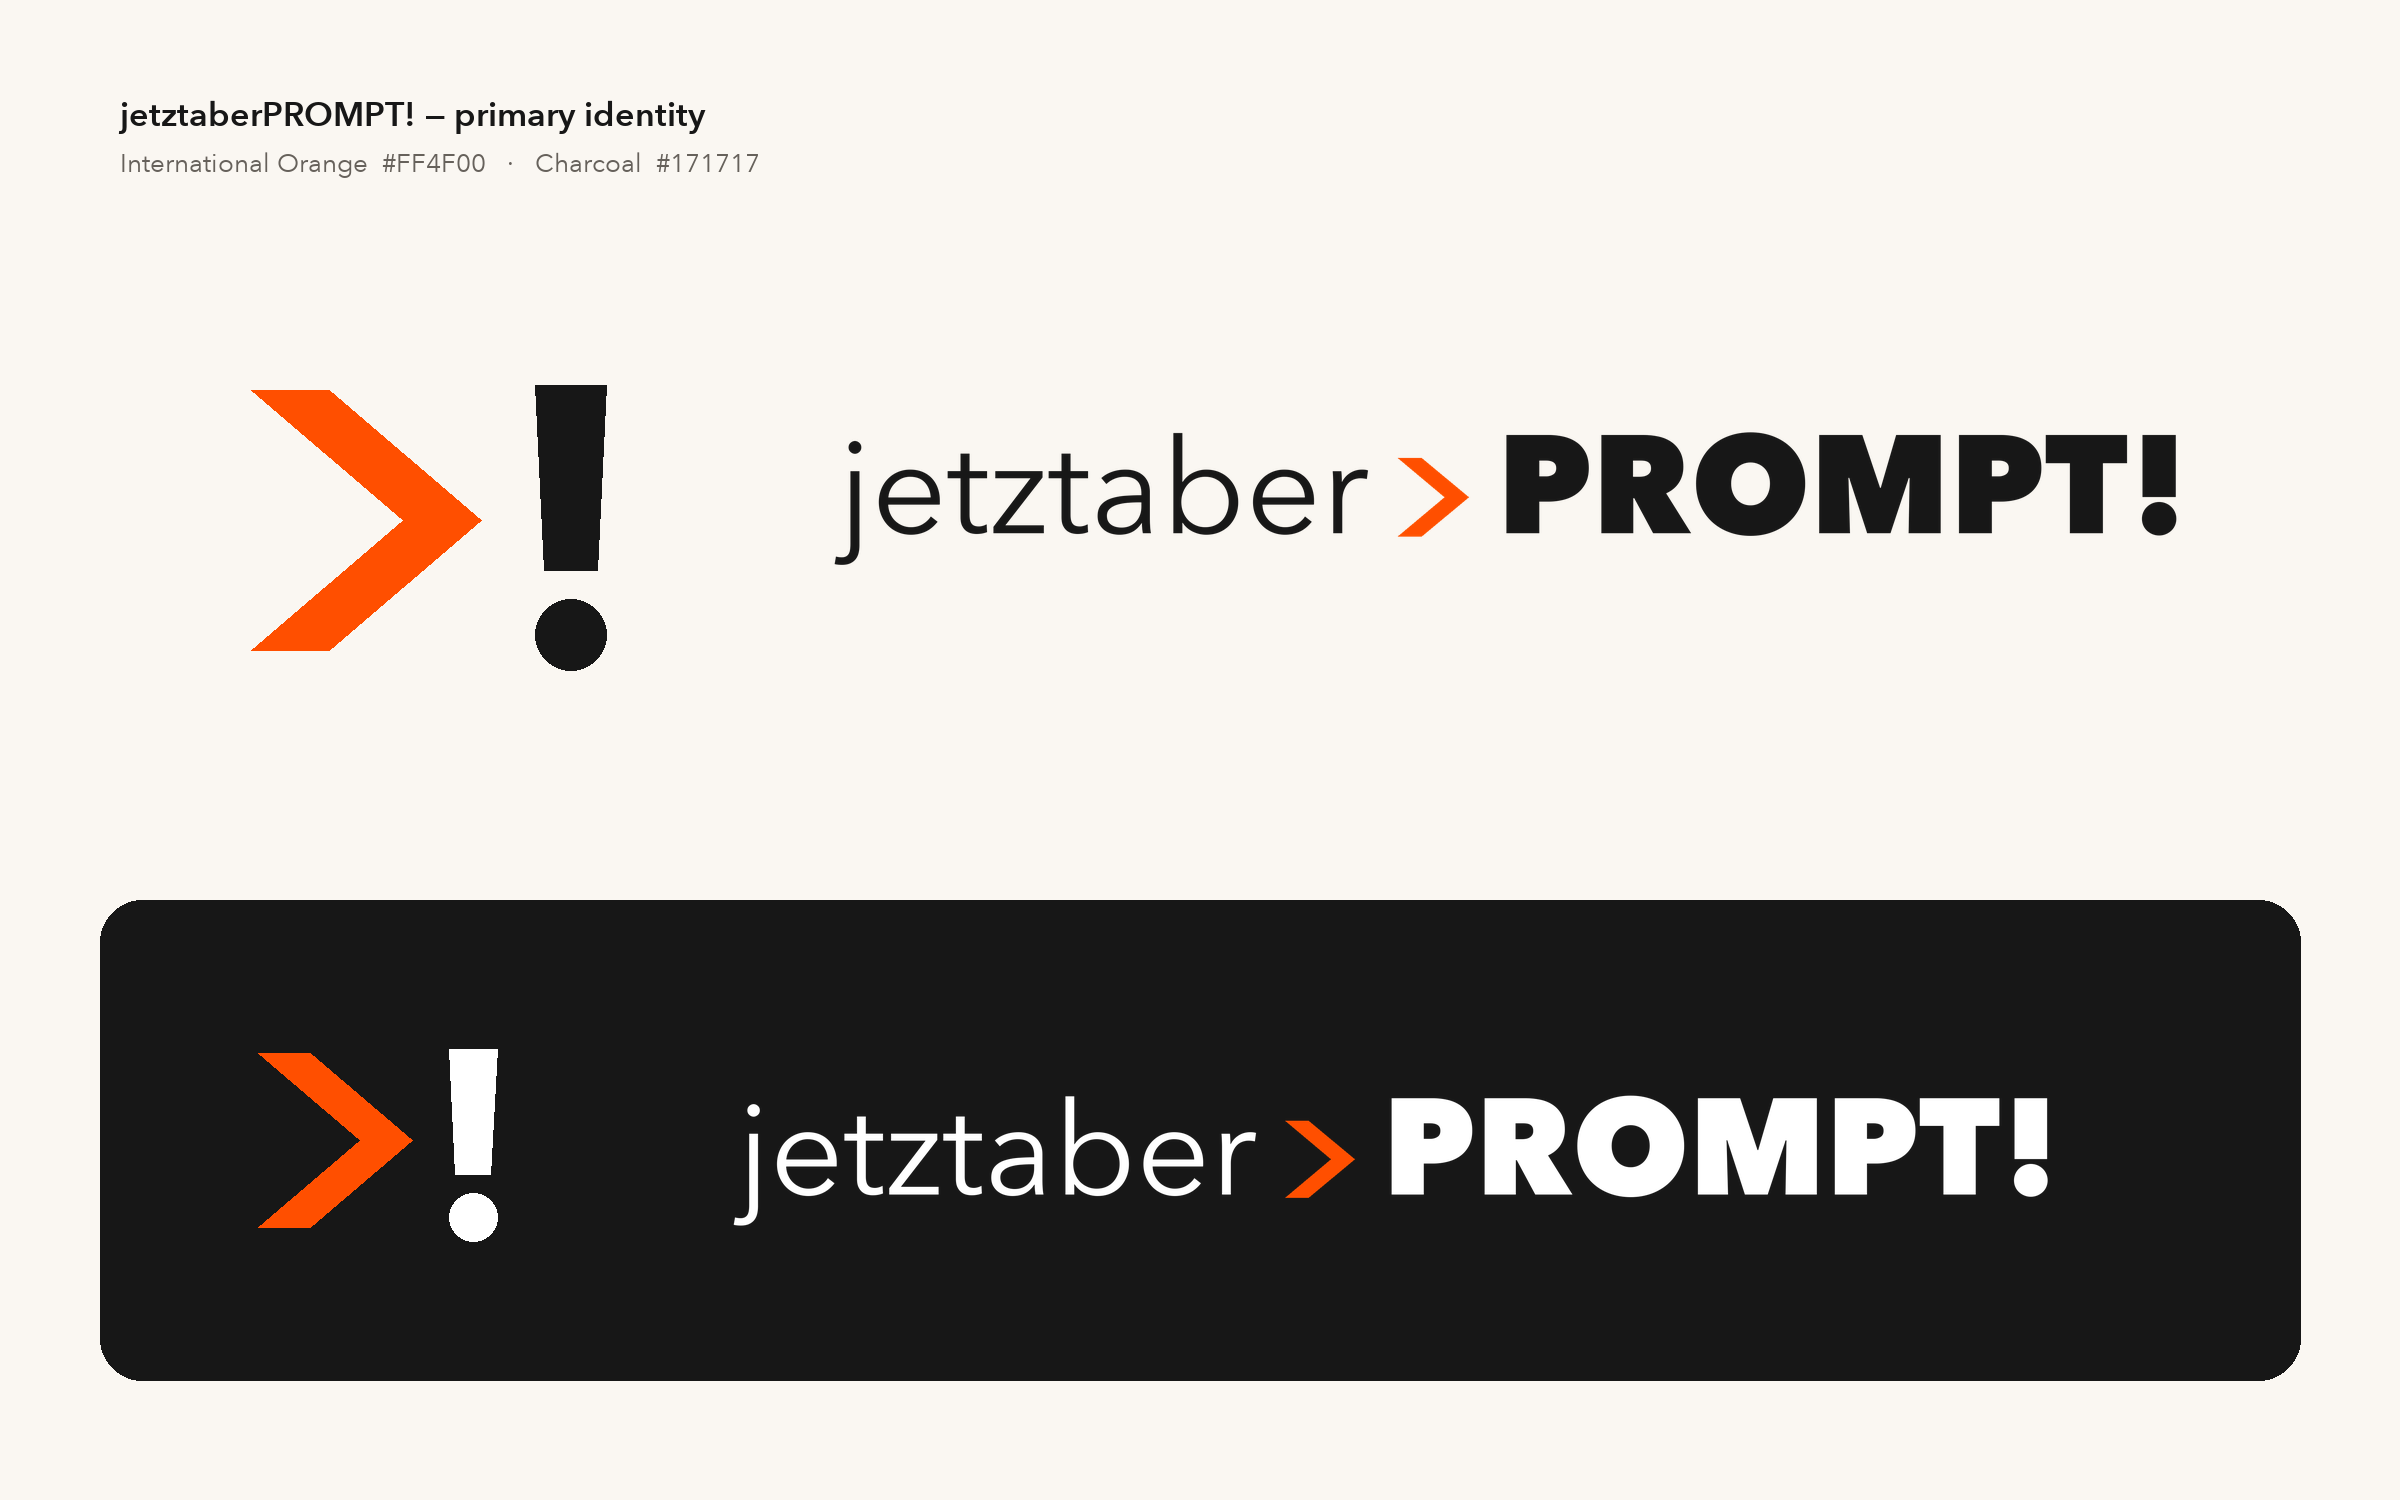
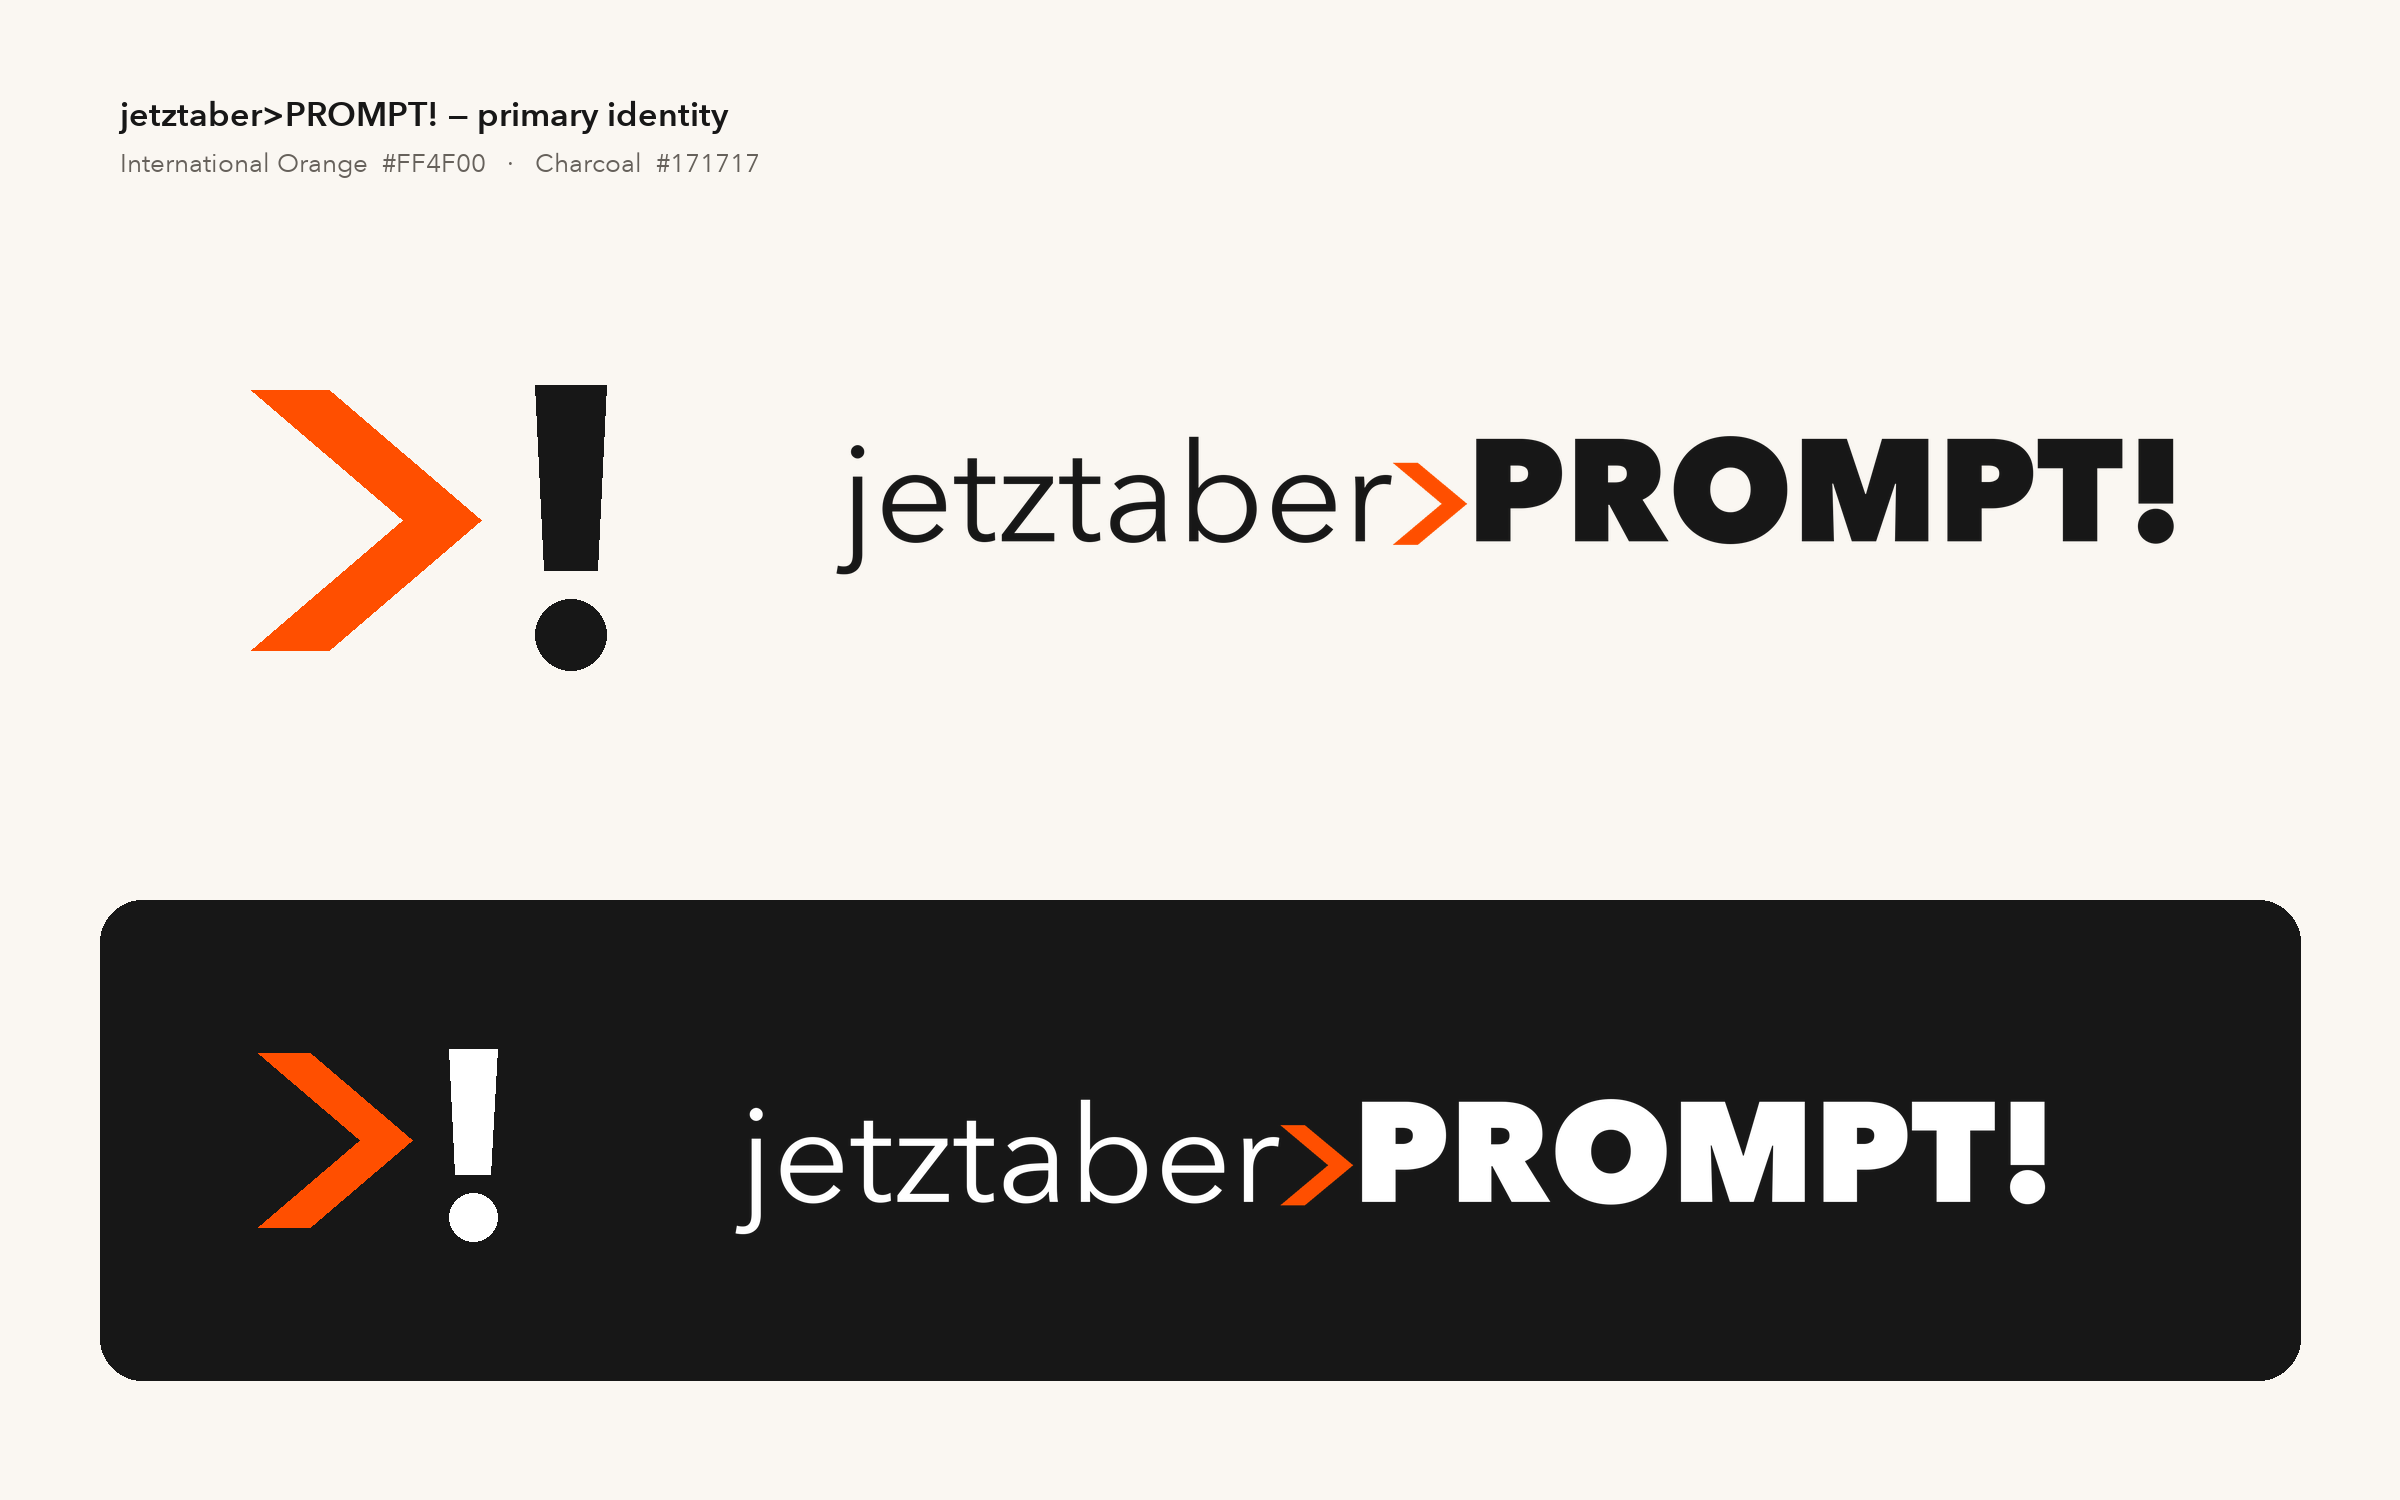
Tighten jetztaber>PROMPT! wordmark

Changed region(s): [[0.3438, 0.276, 0.9062, 0.3987], [0.3125, 0.736, 0.875, 0.828], [0.0938, 0.0613, 0.3125, 0.092]]

diff --git a/kurse/prompting-up-a-business/index.html b/kurse/prompting-up-a-business/index.html
@@ -42,8 +42,8 @@
 
   <header class="site-header" data-header>
     <div class="container nav-wrap">
-      <a href="../../index.html" class="brand" aria-label="JetztAberPROMPT! – Startseite">
-        <img class="brand-wordmark" src="../../assets/jetztaber-wordmark.svg" alt="" width="1921" height="340" />
+      <a href="../../index.html" class="brand" aria-label="jetztaber>PROMPT! – Startseite">
+        <img class="brand-wordmark" src="../../assets/jetztaber-wordmark.svg" alt="" width="1845" height="340" />
         <img class="brand-symbol" src="../../assets/jetztaber-mark.svg" alt="" width="512" height="512" />
       </a>
       <button class="nav-toggle" type="button" aria-label="Menü öffnen" aria-expanded="false" data-nav-toggle>
@@ -218,7 +218,7 @@
   <footer class="site-footer">
     <div class="container footer-grid">
       <div class="footer-brand">
-        <img class="footer-brand-logo" src="../../assets/jetztaber-wordmark.svg" alt="JetztAberPROMPT!" width="1921" height="340" />
+        <img class="footer-brand-logo" src="../../assets/jetztaber-wordmark.svg" alt="jetztaber>PROMPT!" width="1845" height="340" />
         <span>Sebastian Vauth</span>
         <div class="footer-meta">
           <a href="tel:+491732955147">+49 (0) 173 295 51 47</a>

diff --git a/index.html b/index.html
@@ -63,8 +63,8 @@
 
   <header class="site-header" data-header>
     <div class="container nav-wrap">
-      <a href="index.html" class="brand" aria-label="JetztAberPROMPT! – Startseite">
-        <img class="brand-wordmark" src="assets/jetztaber-wordmark.svg" alt="" width="1921" height="340" />
+      <a href="index.html" class="brand" aria-label="jetztaber>PROMPT! – Startseite">
+        <img class="brand-wordmark" src="assets/jetztaber-wordmark.svg" alt="" width="1845" height="340" />
         <img class="brand-symbol" src="assets/jetztaber-mark.svg" alt="" width="512" height="512" />
       </a>
 
@@ -328,7 +328,7 @@
   <footer class="site-footer">
     <div class="container footer-grid">
       <div class="footer-brand">
-        <img class="footer-brand-logo" src="assets/jetztaber-wordmark.svg" alt="JetztAberPROMPT!" width="1921" height="340" />
+        <img class="footer-brand-logo" src="assets/jetztaber-wordmark.svg" alt="jetztaber>PROMPT!" width="1845" height="340" />
         <span>Sebastian Vauth</span>
         <div class="footer-meta">
           <a href="tel:+491732955147">+49 (0) 173 295 51 47</a>

diff --git a/datenschutz.html b/datenschutz.html
@@ -26,8 +26,8 @@
 
 <header class="site-header" data-header>
   <div class="container nav-wrap">
-    <a href="index.html" class="brand" aria-label="JetztAberPROMPT! – Startseite">
-      <img class="brand-wordmark" src="assets/jetztaber-wordmark.svg" alt="" width="1921" height="340" />
+    <a href="index.html" class="brand" aria-label="jetztaber>PROMPT! – Startseite">
+      <img class="brand-wordmark" src="assets/jetztaber-wordmark.svg" alt="" width="1845" height="340" />
       <img class="brand-symbol" src="assets/jetztaber-mark.svg" alt="" width="512" height="512" />
     </a>
 
@@ -256,7 +256,7 @@
 <footer class="site-footer">
   <div class="container footer-grid">
     <div class="footer-brand">
-      <img class="footer-brand-logo" src="assets/jetztaber-wordmark.svg" alt="JetztAberPROMPT!" width="1921" height="340" />
+      <img class="footer-brand-logo" src="assets/jetztaber-wordmark.svg" alt="jetztaber>PROMPT!" width="1845" height="340" />
       <span>Sebastian Vauth</span>
       <div class="footer-meta">
         <a href="tel:+491732955147">+49 (0) 173 295 51 47</a>

diff --git a/impressum.html b/impressum.html
@@ -26,8 +26,8 @@
 
 <header class="site-header" data-header>
   <div class="container nav-wrap">
-    <a href="index.html" class="brand" aria-label="JetztAberPROMPT! – Startseite">
-      <img class="brand-wordmark" src="assets/jetztaber-wordmark.svg" alt="" width="1921" height="340" />
+    <a href="index.html" class="brand" aria-label="jetztaber>PROMPT! – Startseite">
+      <img class="brand-wordmark" src="assets/jetztaber-wordmark.svg" alt="" width="1845" height="340" />
       <img class="brand-symbol" src="assets/jetztaber-mark.svg" alt="" width="512" height="512" />
     </a>
 
@@ -127,7 +127,7 @@
 <footer class="site-footer">
   <div class="container footer-grid">
     <div class="footer-brand">
-      <img class="footer-brand-logo" src="assets/jetztaber-wordmark.svg" alt="JetztAberPROMPT!" width="1921" height="340" />
+      <img class="footer-brand-logo" src="assets/jetztaber-wordmark.svg" alt="jetztaber>PROMPT!" width="1845" height="340" />
       <span>Sebastian Vauth</span>
       <div class="footer-meta">
         <a href="tel:+491732955147">+49 (0) 173 295 51 47</a>

diff --git a/brand-assets/generate_jetztaber_assets.py b/brand-assets/generate_jetztaber_assets.py
@@ -1,5 +1,5 @@
 #!/usr/bin/env python3
-"""Generate the polished jetztaberPROMPT! vector and raster identity assets."""
+"""Generate the polished jetztaber>PROMPT! vector and raster identity assets."""
 
 from pathlib import Path
 
@@ -17,6 +17,7 @@ ORANGE = "#FF4F00"
 CHARCOAL = "#171717"
 WARM_WHITE = "#FAF7F2"
 WHITE = "#FFFFFF"
+WORDMARK_SEPARATOR_GAP = 0
 
 
 def chevron_points(x: float, cy: float, width: float, height: float):
@@ -37,14 +38,15 @@ def svg_points(points):
 
 
 def svg_shell(width, height, body, title, description, background=None):
-    bg = ""
+    elements = []
     if background:
-        bg = f'<rect width="{width}" height="{height}" fill="{background}"/>'
+        elements.append(f'  <rect width="{width}" height="{height}" fill="{background}"/>')
+    elements.append(body.strip("\n"))
+    content = "\n".join(elements)
     return f'''<svg xmlns="http://www.w3.org/2000/svg" width="{width}" height="{height}" viewBox="0 0 {width} {height}" role="img" aria-labelledby="title desc">
   <title id="title">{title}</title>
   <desc id="desc">{description}</desc>
-  {bg}
-  {body}
+{content}
 </svg>
 '''
 
@@ -59,7 +61,7 @@ def build_mark_svg(dark=False):
         512,
         512,
         body,
-        "jetztaberPROMPT! symbol",
+        "jetztaber>PROMPT! symbol",
         "An orange prompt chevron followed by a bold exclamation mark.",
         CHARCOAL if dark else None,
     )
@@ -110,11 +112,11 @@ def build_wordmark_svg(dark=False):
     baseline = 250
     left = 64
     regular_path, x = regular.shape("jetztaber", 176, left, baseline)
-    chevron_x = x + 38
+    chevron_x = x + WORDMARK_SEPARATOR_GAP
     chevron_width = 94
     chevron_height = 104
     chevron_cy = 202
-    heavy_x = chevron_x + chevron_width + 38
+    heavy_x = chevron_x + chevron_width + WORDMARK_SEPARATOR_GAP
     heavy_path, end_x = heavy.shape("PROMPT!", 184, heavy_x, baseline)
     width = int(end_x + 66)
     body = f'''
@@ -125,8 +127,8 @@ def build_wordmark_svg(dark=False):
         width,
         340,
         body,
-        "jetztaberPROMPT! wordmark",
-        "The word jetztaber in regular weight, an orange prompt chevron, and PROMPT! in heavy weight.",
+        "jetztaber>PROMPT! wordmark",
+        "The word jetztaber, an orange prompt chevron set directly between the words, and PROMPT! in heavy weight.",
         CHARCOAL if dark else None,
     ), width
 
@@ -169,10 +171,10 @@ def render_wordmark_png(width=2400, dark=False, transparent=True):
     x = 128
     draw.text((x, baseline), "jetztaber", fill=color, font=regular, anchor="ls")
     bbox = draw.textbbox((x, baseline), "jetztaber", font=regular, anchor="ls")
-    chevron_x = bbox[2] + 76
+    chevron_x = bbox[2] + WORDMARK_SEPARATOR_GAP * base_scale
     chevron = chevron_points(chevron_x, 404, 188, 208)
     draw.polygon(chevron, fill=ORANGE)
-    heavy_x = chevron_x + 188 + 76
+    heavy_x = chevron_x + 188 + WORDMARK_SEPARATOR_GAP * base_scale
     draw.text((heavy_x, baseline), "PROMPT!", fill=color, font=heavy, anchor="ls")
     right = draw.textbbox((heavy_x, baseline), "PROMPT!", font=heavy, anchor="ls")[2] + 132
     crop = canvas.crop((0, 0, right, 680))
@@ -190,7 +192,7 @@ def build_preview():
     label_font = ImageFont.truetype(str(FONT_PATH), 34, index=2)
     small_font = ImageFont.truetype(str(FONT_PATH), 26, index=7)
 
-    draw.text((120, 92), "jetztaberPROMPT! — primary identity", fill=CHARCOAL, font=label_font)
+    draw.text((120, 92), "jetztaber>PROMPT! — primary identity", fill=CHARCOAL, font=label_font)
     draw.text((120, 146), "International Orange  #FF4F00   ·   Charcoal  #171717", fill="#66615B", font=small_font)
 
     mark = render_mark_png(520, transparent=True)

diff --git a/brand-assets/README.md b/brand-assets/README.md
@@ -1,4 +1,4 @@
-# jetztaberPROMPT! brand assets
+# jetztaber>PROMPT! brand assets
 
 Primary palette:
 
